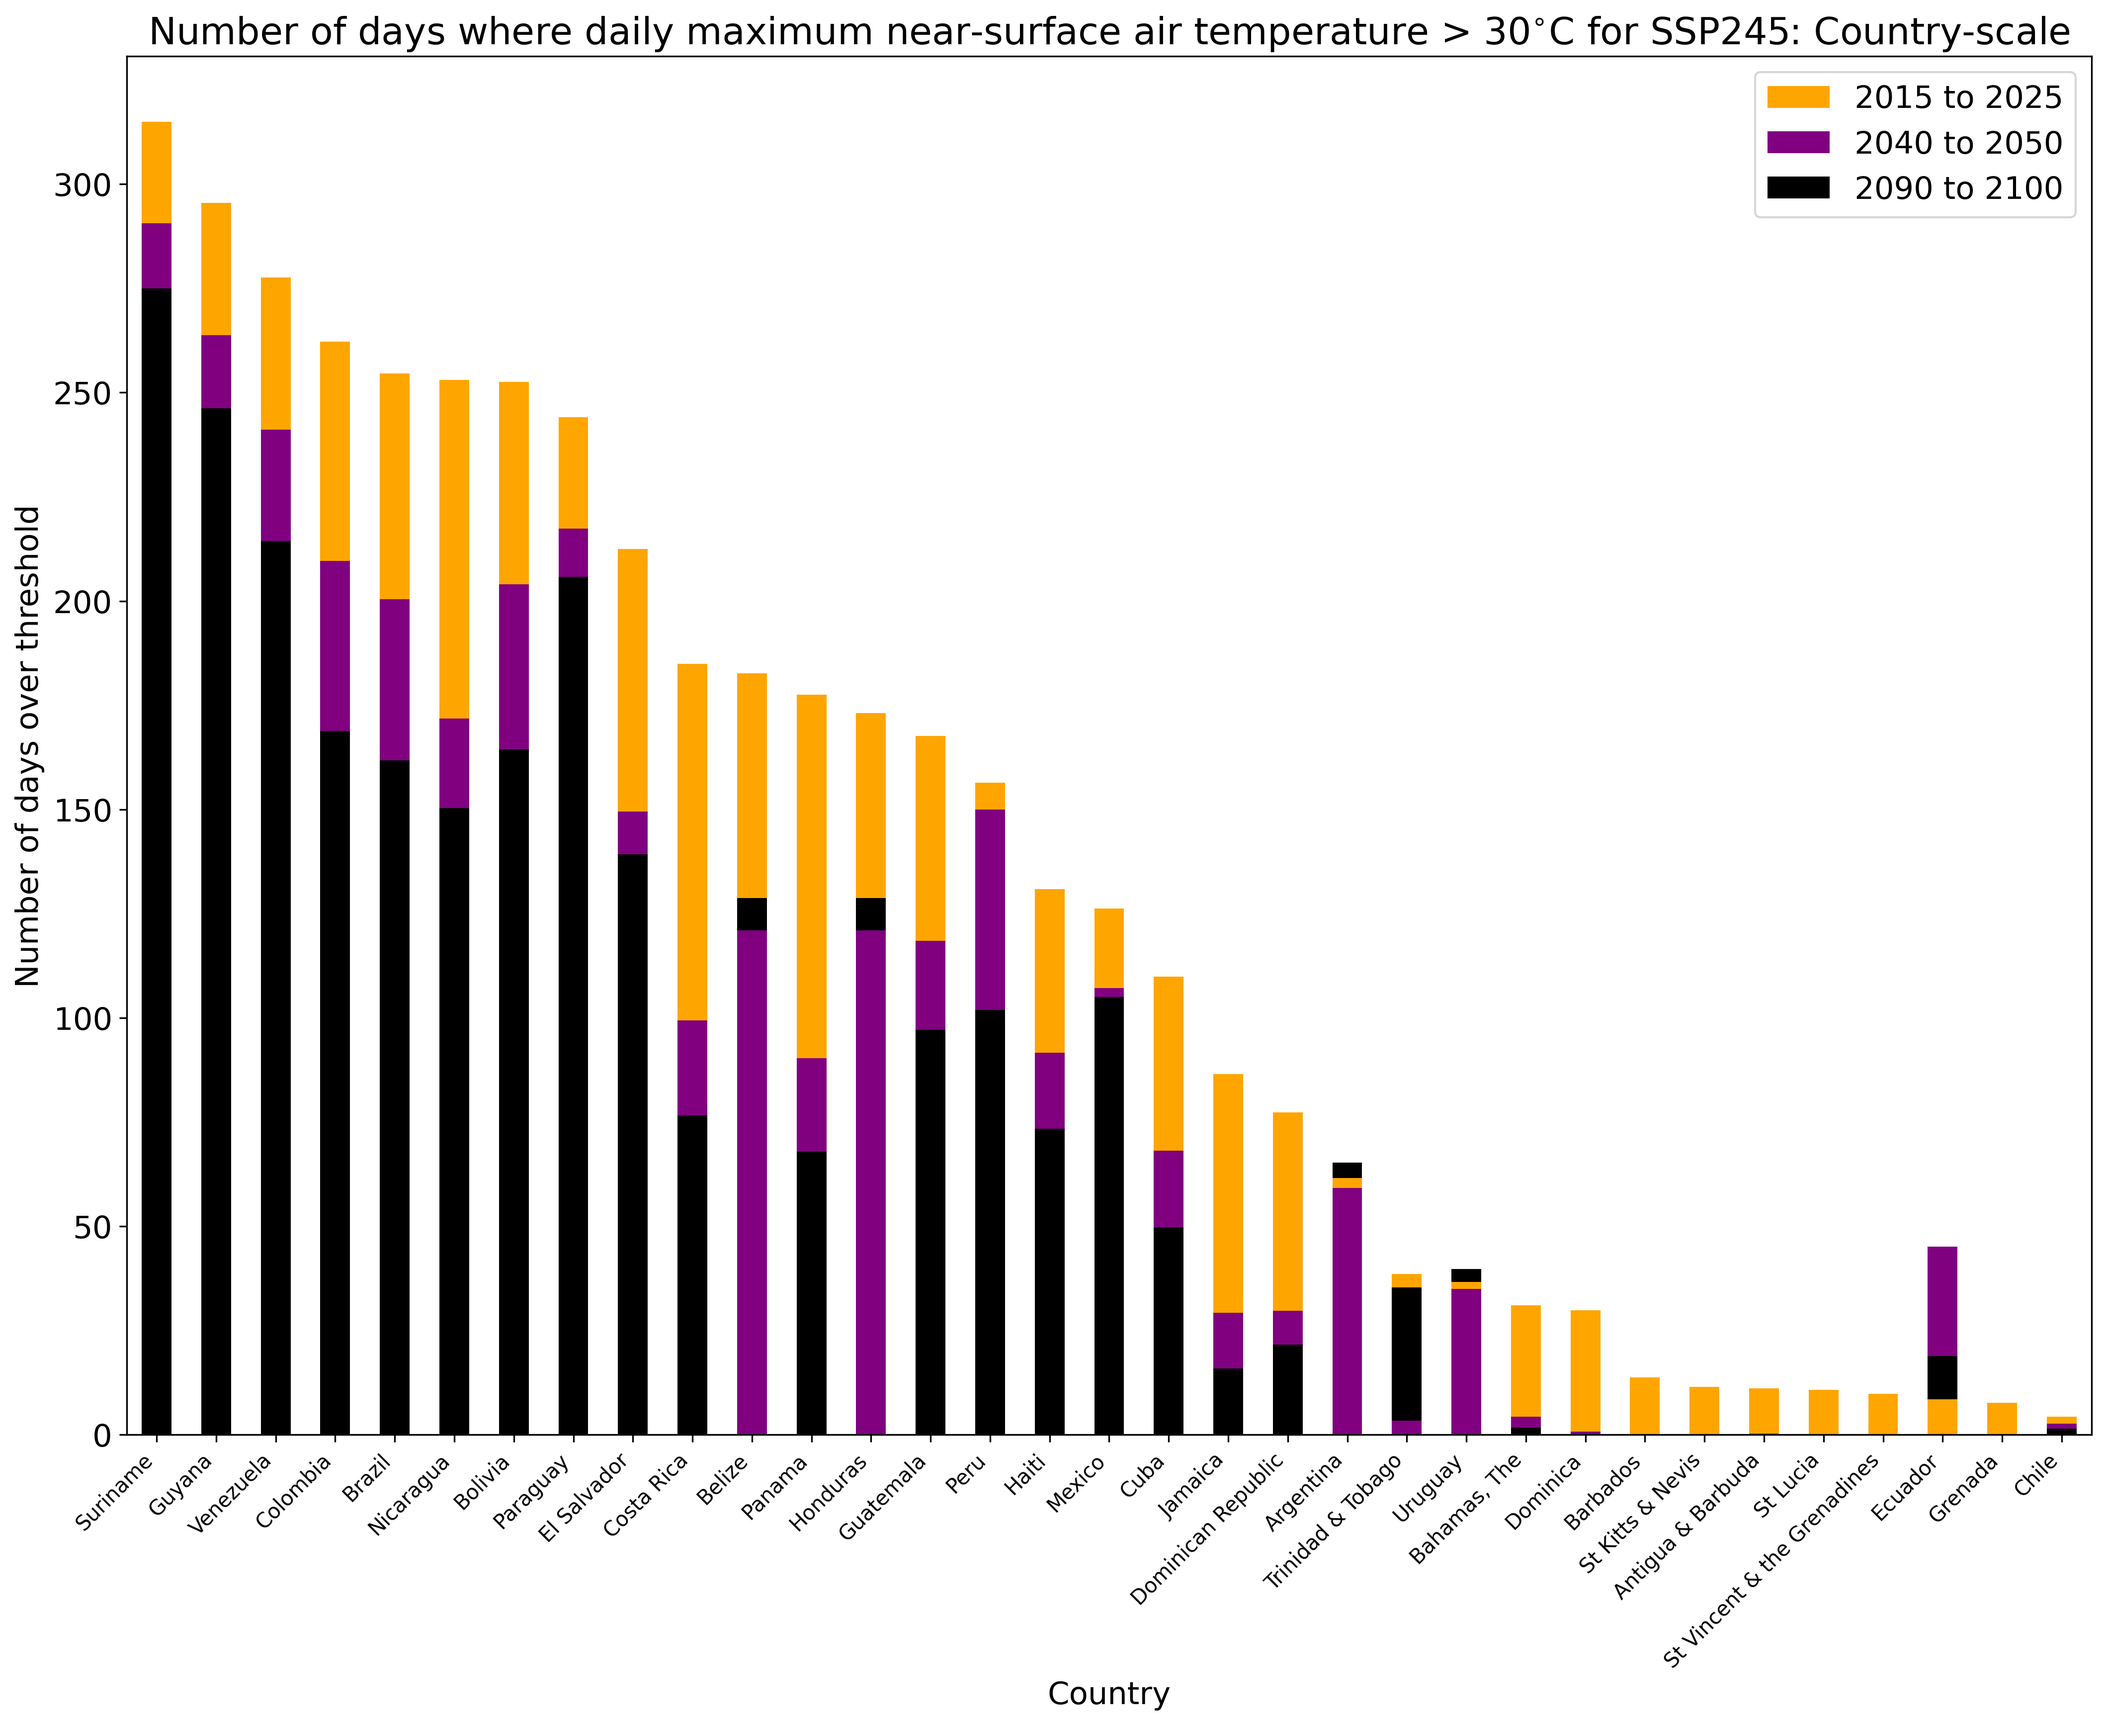
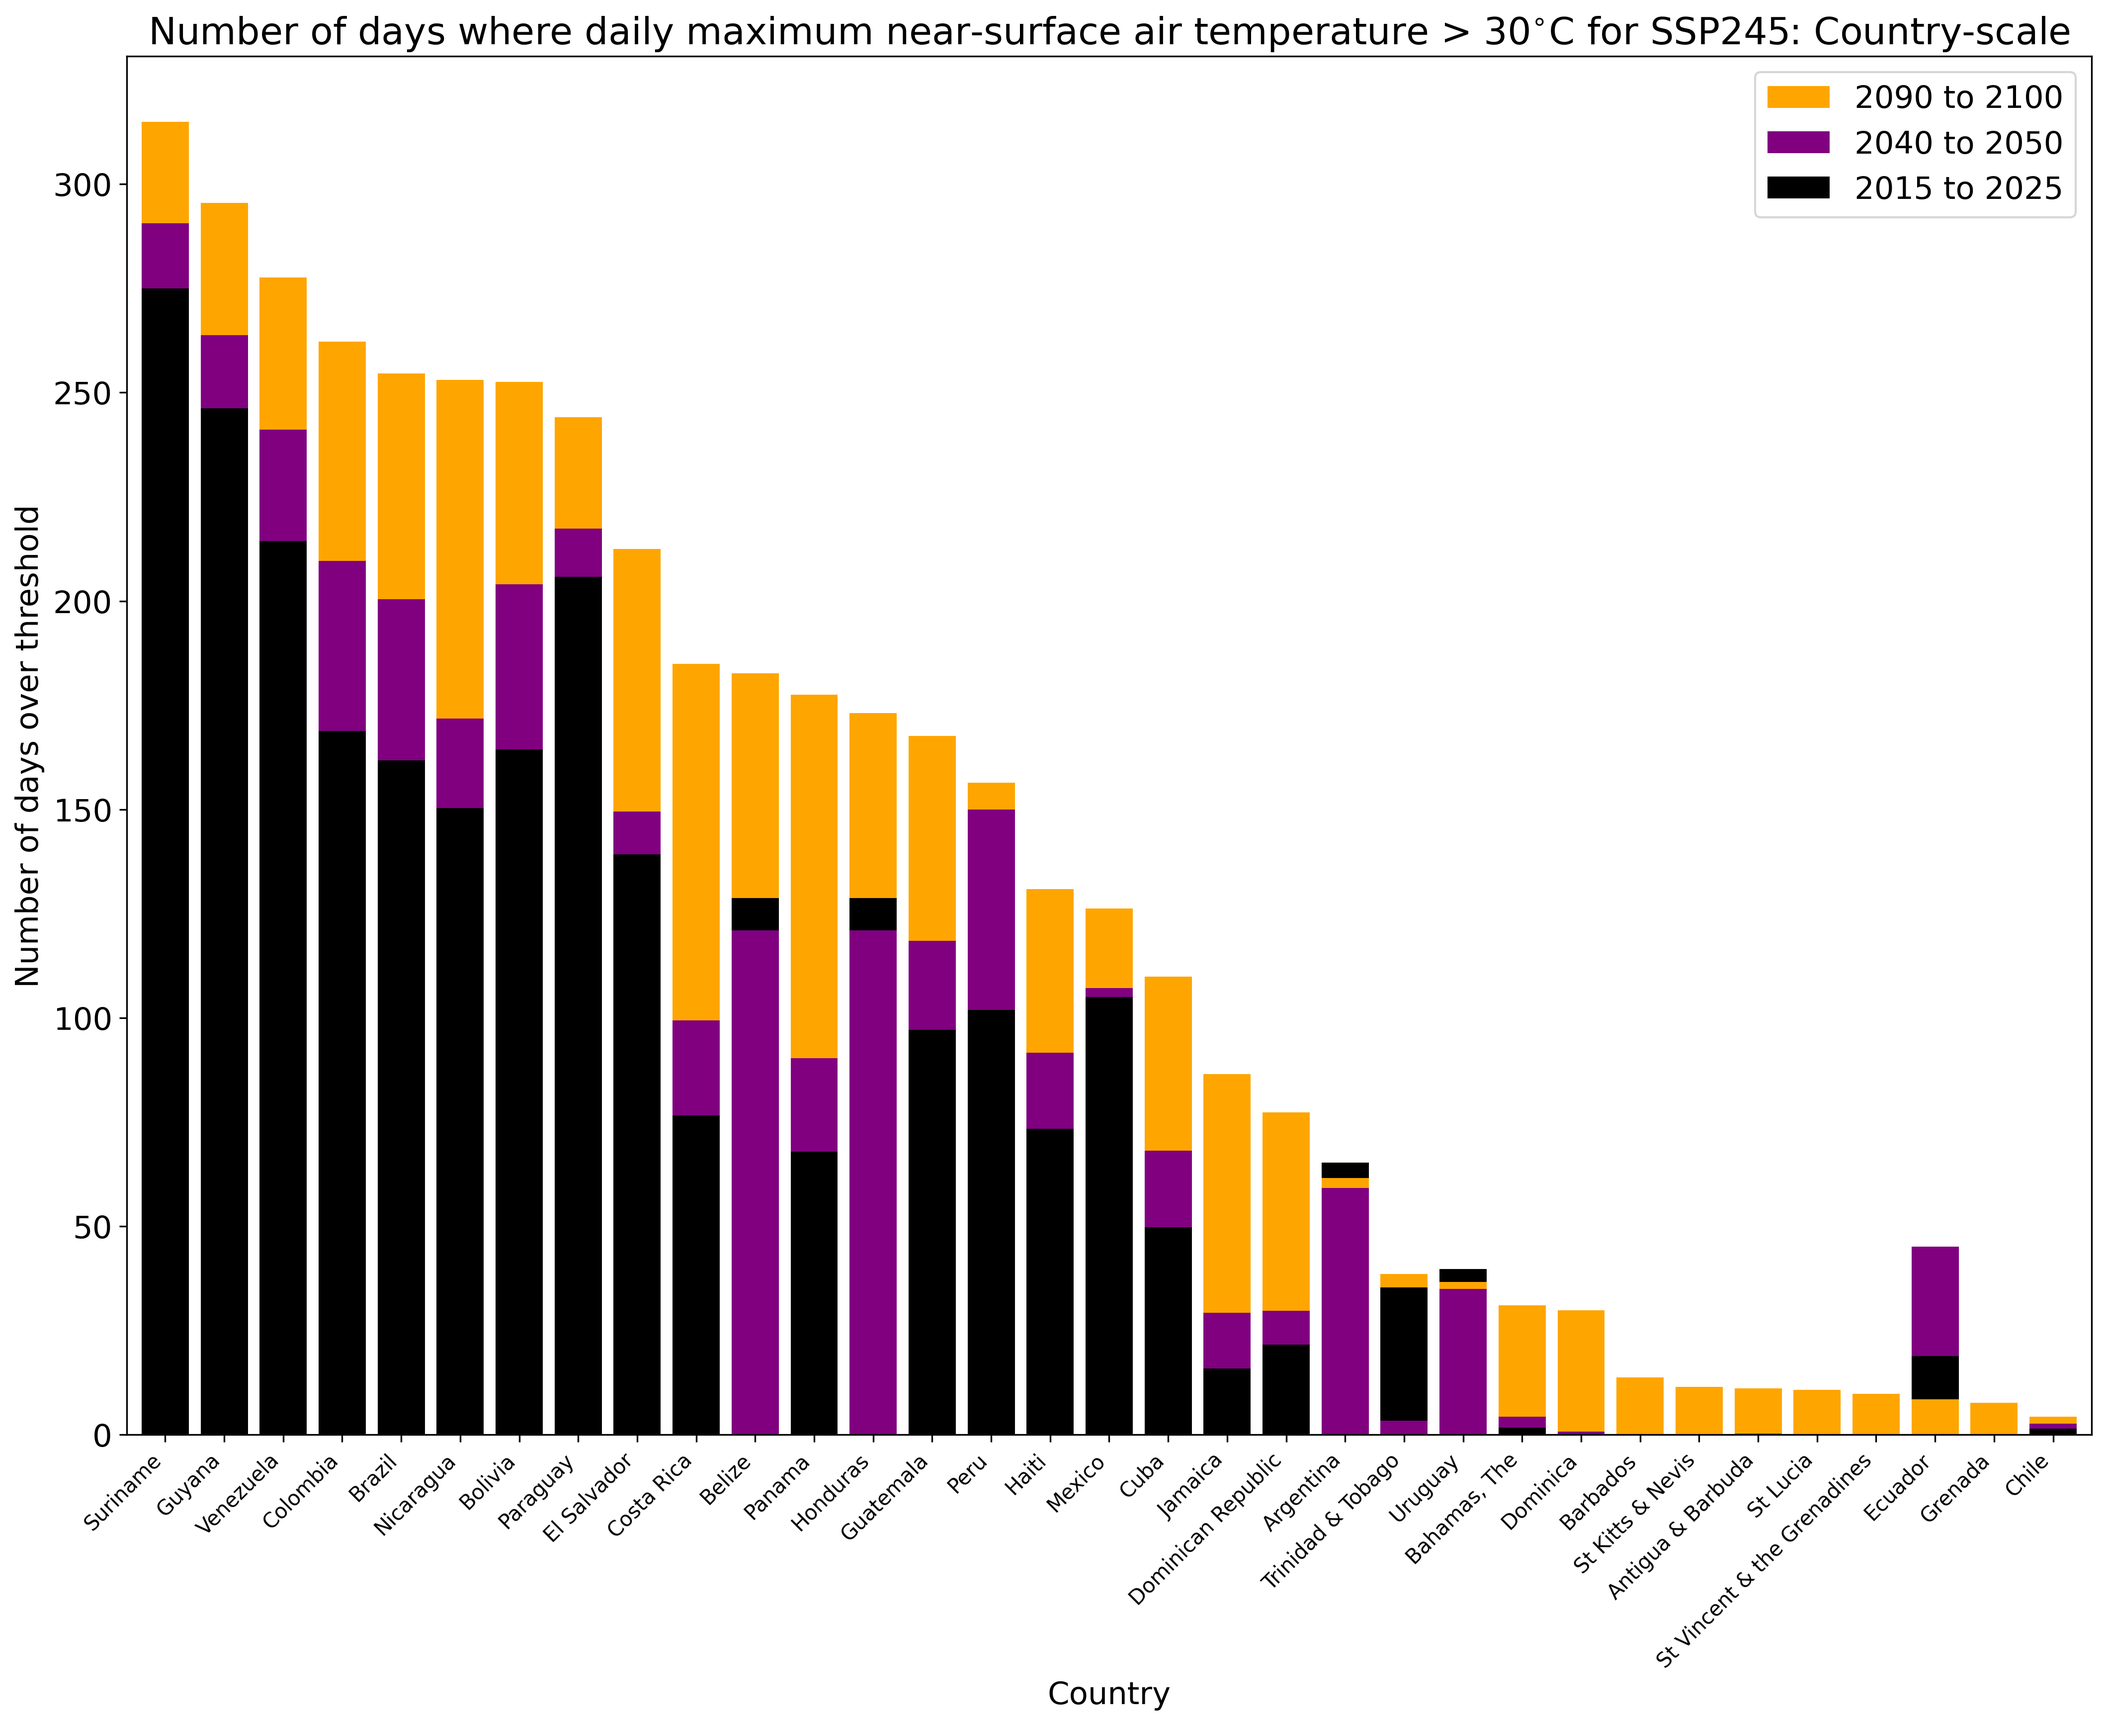
Fix legend

diff --git a/heat_scan/LCR/days_over_threshold_barchart.py b/heat_scan/LCR/days_over_threshold_barchart.py
@@ -207,9 +207,9 @@ def stacked_bar(years, threshold, ssp, source_id, current_dir=os.getcwd().replac
     fig, ax = plt.subplots(1, figsize=(17, 12))
 
     # plot in correct order
-    high_df['2090_to_2100'].plot.bar(ax=ax, color=color_df['2090_to_2100'], width=0.80)
-    high_df['2040_to_2050'].plot.bar(ax=ax, color=color_df['2040_to_2050'], width=0.80)
-    high_df['2015_to_2025'].plot.bar(ax=ax, color=color_df['2015_to_2025'], width=0.80)
+    high_df['2090_to_2100'].plot.bar(ax=ax, color=color_df['2090_to_2100'], width=0.80, label='2090 to 2100')
+    high_df['2040_to_2050'].plot.bar(ax=ax, color=color_df['2040_to_2050'], width=0.80, label='2040 to 2050')
+    high_df['2015_to_2025'].plot.bar(ax=ax, color=color_df['2015_to_2025'], width=0.80, label='2015 to 2025')
 
     mid_df['2090_to_2100'].plot.bar(ax=ax, color=color_df['2090_to_2100'], label='', width=0.80)
     mid_df['2040_to_2050'].plot.bar(ax=ax, color=color_df['2040_to_2050'], label='', width=0.80)
@@ -219,7 +219,7 @@ def stacked_bar(years, threshold, ssp, source_id, current_dir=os.getcwd().replac
     low_df['2040_to_2050'].plot.bar(ax=ax, color=color_df['2040_to_2050'], label='', width=0.80)
     low_df['2015_to_2025'].plot.bar(ax=ax, color=color_df['2015_to_2025'], label='', width=0.80)
 
-    plt.legend(["2015 to 2025", "2040 to 2050", "2090 to 2100"])
+    plt.legend()
 
     if scale == 'Country':
         font_size = 10
@@ -263,7 +263,8 @@ if __name__ == "__main__":
     years = ['2015_to_2025', '2040_to_2050', '2090_to_2100']
 
     # stacked_bar(years=years, threshold=threshold, ssp=ssp, source_id=source_id, scale='Country')
-    stacked_bar(years=years, threshold=threshold, ssp=ssp, source_id=source_id, scale='City', top=True)
+    # stacked_bar(years=years, threshold=threshold, ssp=ssp, source_id=source_id, scale='City', top=True)
+    stacked_bar(years=years, threshold=threshold, ssp=ssp, source_id=source_id, scale='City', top=False)
 
     # grouped_bar(years=years, threshold=threshold, ssp=ssp, source_id=source_id, scale='Country')
     # grouped_bar(years=years, threshold=threshold, ssp=ssp, source_id=source_id, scale='City')
